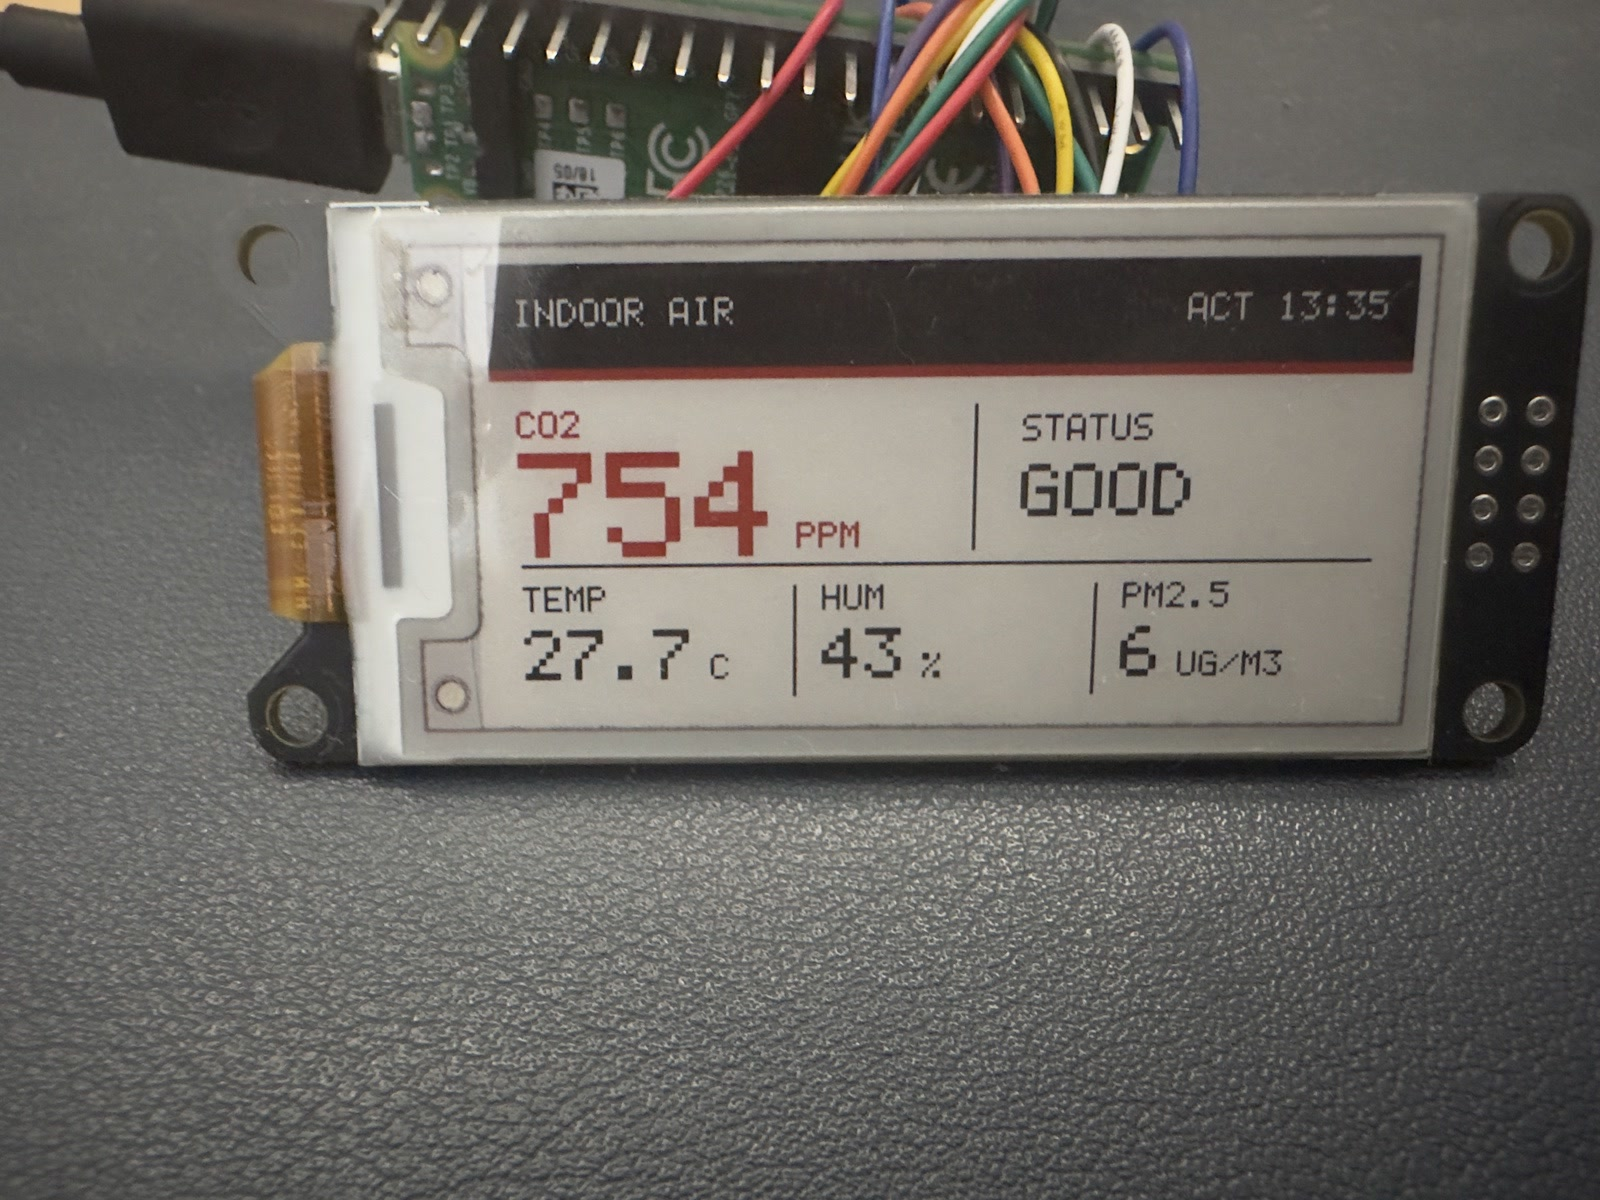
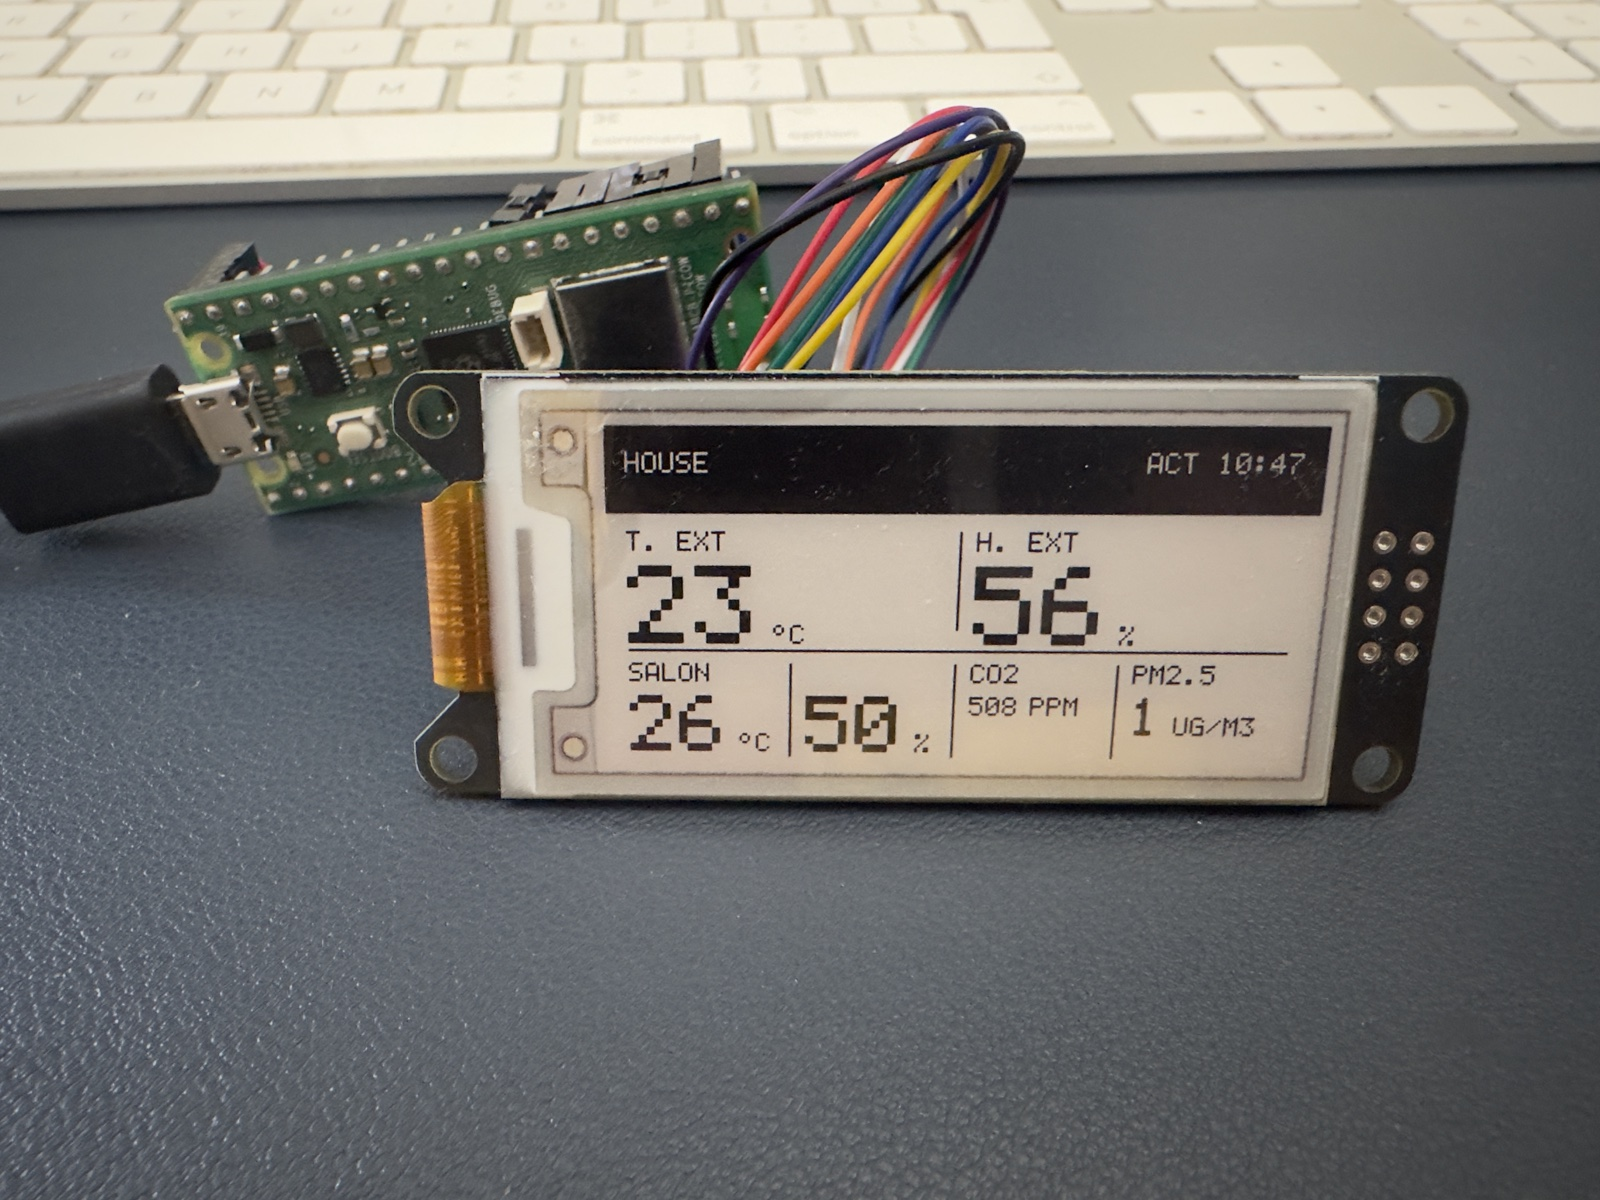
Update README project screenshots

diff --git a/README.md b/README.md
@@ -32,6 +32,8 @@ The integration includes light and dark mode icons on Home Assistant 2026.3 or n
 
 After pairing the hardware, open **Ink Display** in the Home Assistant sidebar. This is the only place you need to manage the screen.
 
+![Home Assistant Ink Display visual editor](docs/ha-ink-display-editor.png)
+
 You can:
 
 - Add one to four entities to each of two rows, up to eight in total.
